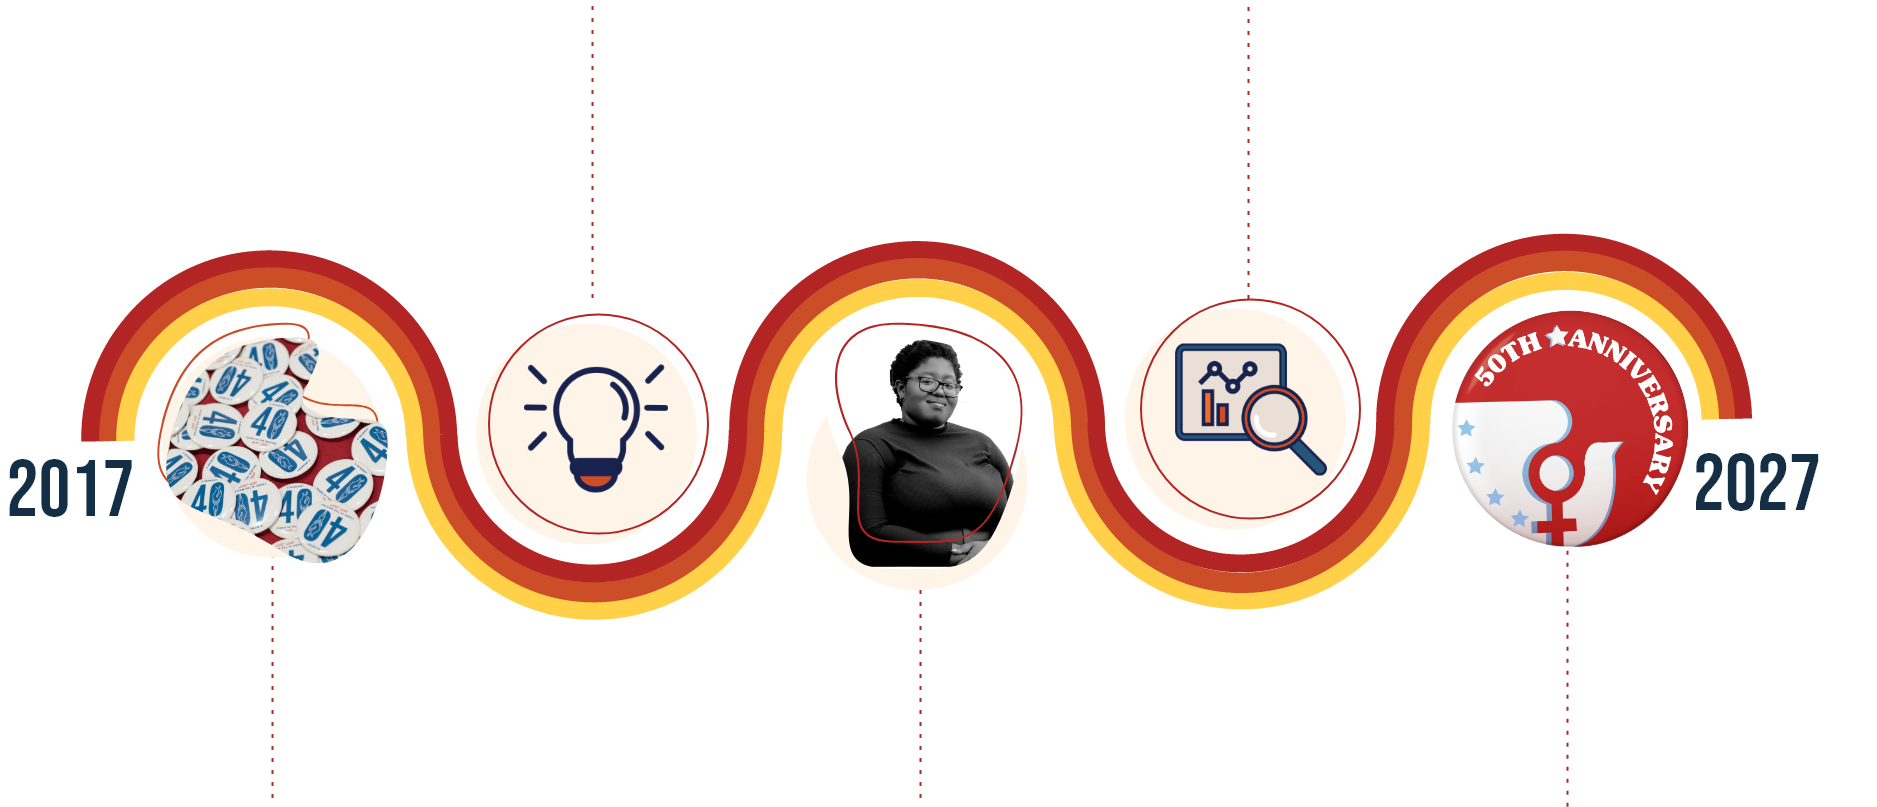
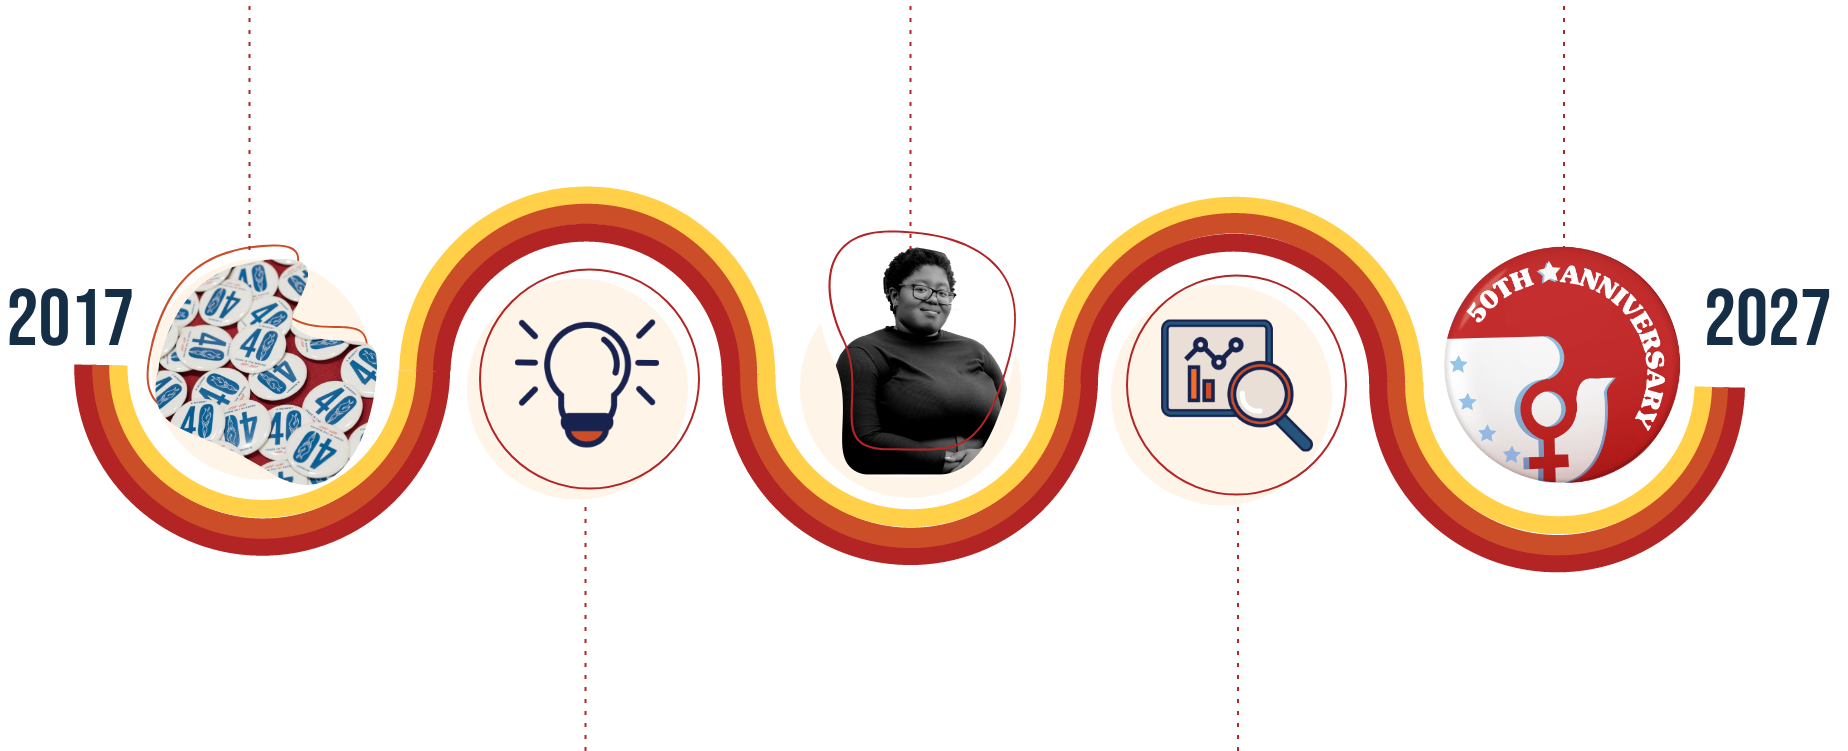
change image for timeline flip numbers from top to bottom

Changed region(s): [[0.0, 0.245, 1.0, 0.7656]]

diff --git a/src/Pages/AboutProject/About.css b/src/Pages/AboutProject/About.css
@@ -99,27 +99,27 @@ TIMELINE
 }
 
 .aboutTimeline_annot1 {
-  margin-top: 1050rem;
+  /* margin-top: 1050rem; */
   margin-left: 180rem;
 }
 
 .aboutTimeline_annot2 {
   margin-left: 535rem;
-  margin-top: 20rem;
+  margin-top: 1050rem;
 }
 
 .aboutTimeline_annot3 {
-  margin-top: 1050rem;
+  /* margin-top: 1050rem; */
   margin-left: 810rem;
 }
 
 .aboutTimeline_annot4 {
   margin-left: 1150rem;
-  margin-top: 20rem;
+  margin-top: 1050rem;
 }
 
 .aboutTimeline_annot5 {
-  margin-top: 1050rem;
+  /* margin-top: 1050rem; */
   margin-left: 1450rem;
 }
 
